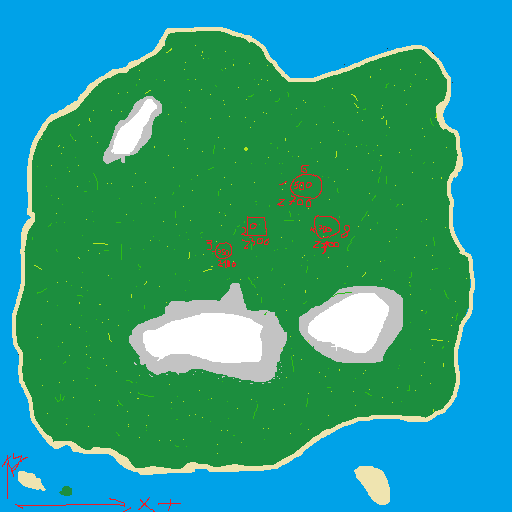
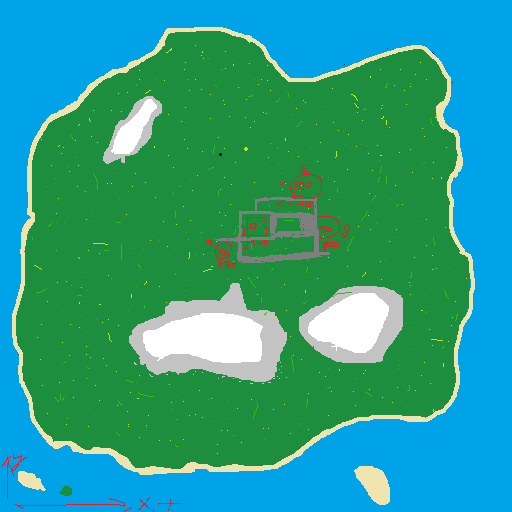
lampen

Changed region(s): [[0.4375, 0.375, 0.6562, 0.5312]]

diff --git a/Main.java b/Main.java
@@ -19,8 +19,8 @@ public class Main {
         Boden1.setzeSkalierung(10,3,10);
         Boden1.setzePosition(0,-590,0);
         Boden1.setzeTextur("mapTextur.png");
-        Baum Baum1;
-        Baum1 = new Baum(-350,0,200,1);
+        lampe Baum1;
+        Baum1 = new lampe(-450,0,200,1,true);
         
         
         if (multiplayer)
@@ -135,6 +135,50 @@ int[]koordinatenBaume = {
                 //System.out.println(koordinatenBaume[i+1]);
                 //System.out.println(koordinatenBaume[i+2]);
                 HitBoxen[i+9] = Baum.gibHitBox();
+            }
+
+            int[]koordinatenlampenV = {
+            -289,0,126,
+            -87,0,107,
+            56,0,-64,
+            254,0,-60,
+            368,0,332,
+            241,0,326,
+            -111,0,403,
+
+            };
+            
+            //           anzahl lampen *3
+            for (int i = 0;i<21; i= i+3){
+                lampe lampe;
+                lampe = new lampe(koordinatenlampenV[i], koordinatenlampenV[i+1], koordinatenlampenV[i+2], 1,true);
+                //System.out.println(koordinatenBaume[i]);
+                //System.out.println(koordinatenBaume[i+1]);
+                //System.out.println(koordinatenBaume[i+2]);
+                HitBoxen[i+63] = lampe.gibHitBox();
+            }
+            int[]koordinatenlampenR = {
+                -68,0,6,
+                552,0,42,
+                356,0,268,
+                257,0,268,
+                551,0,441,
+                609,0,595,
+                42,0,455,
+
+
+
+
+
+
+            };
+            for (int i = 0;i<21; i= i+3){
+                lampe lampe;
+                lampe = new lampe(koordinatenlampenR[i], koordinatenlampenR[i+1], koordinatenlampenR[i+2], 1,false);
+                //System.out.println(koordinatenBaume[i]);
+                //System.out.println(koordinatenBaume[i+1]);
+                //System.out.println(koordinatenBaume[i+2]);
+                HitBoxen[i+63] = lampe.gibHitBox();
             }
         
             Waffe Waffe1 = new Waffe(Enemys,Global,Feinde,FeindeBool);

diff --git a/lampe.java b/lampe.java
@@ -6,10 +6,12 @@ int x;
     double size;
     GLZylinder pfosten;
     GLZylinder quer;
+    GLKugel lampe;
+    GLLicht licht;
     Hitbox HitBox;
-    int hohe = 70;
-    int breite =3;
-    public lampe (int px, int py, int pz, double psize){
+    int hohe = 30;
+    int breite =1;
+    public lampe (int px, int py, int pz, double psize,boolean vorne){
         hohe = (int) (hohe*psize);
         x= px;
         y= py;
@@ -17,10 +19,26 @@ int x;
         size = psize;
         pfosten = new GLZylinder(x,y+hohe/2-5,z,breite,hohe);
         pfosten.drehe(90, 0, 0);
-        pfosten.setzeFarbe(0.5,0.3,0);
-        quer = new GLZylinder(x,y+hohe,z, 1,breite);
-        quer.setzeFarbe(0.2 ,0.8 ,0.2);
+        pfosten.setzeFarbe(0.5,0.5,0.5);
+        if (vorne ==true){ 
+        quer = new GLZylinder(x,y+hohe-5,z+10, breite,20);
+        quer.setzeFarbe(0.5 ,0.5 ,0.5);
+        lampe = new GLKugel(x,y+hohe-10,z+15, psize*2);
+        lampe.setzeFarbe(1 ,1 ,1);
+        lampe.setzeSelbstleuchten(1,1,1);
+        licht = new GLLicht(lampe.gibPosition());
+        licht.setzeAbschwaechung(0.05);
         HitBox = new Hitbox(pfosten.gibPosition(), breite, hohe, breite, true);
+    }else{
+        quer = new GLZylinder(x,y+hohe-5,z-10, breite,20);
+        quer.setzeFarbe(0.5 ,0.5 ,0.5);
+        lampe = new GLKugel(x,y+hohe-10,z-15, psize*2);
+        lampe.setzeFarbe(1 ,1 ,1);
+        lampe.setzeSelbstleuchten(1,1,1);
+        licht = new GLLicht(lampe.gibPosition());
+        licht.setzeAbschwaechung(0.05);
+        HitBox = new Hitbox(pfosten.gibPosition(), breite, hohe, breite, true);
+    }
     
    }
    public Hitbox gibHitBox()

diff --git a/Camera.java b/Camera.java
@@ -36,7 +36,7 @@ public class Camera {
 
         KameraMain=  KameraMain2;
         UIspieler = new UI(KameraMain);
-        Licht = new GLLicht();
+        //Licht = new GLLicht();
         Maus = new GLMaus();
         Himmel = new GLHimmel("Himmel.jpg");
         //Boden = new GLBoden("Boden.jpg");
@@ -110,7 +110,7 @@ public class Camera {
         {
             Mx = Maus.gibX();
             My = Maus.gibY();
-            if (Maus.gibX()>1750||Maus.gibX()<400||Maus.gibY()<200||Maus.gibY()>800)
+            if (Maus.gibX()>1750||Maus.gibX()<400)
             {   moveMouse(960,600);
                 Mx =960;
                 Mx2 =960;

diff --git a/Player.java b/Player.java
@@ -78,8 +78,8 @@ public class Player {
             if (Tastatur.istGedrueckt(' ')) {
                 System.out.println(((int) HitBox.x)+",0,");
                 System.out.println(((int) HitBox.z)+",");
-                Baum Baum;
-                Baum = new Baum((int) HitBox.x, 0, (int) HitBox.z, 1);
+                lampe Baum;
+                Baum = new lampe((int) HitBox.x, 0, (int) HitBox.z, 1,false);
                 //GLVektor Richtung = new GLVektor(0,1,0);
                 //Richtung.skaliereAuf(Geschwindigkeit);
                 //Camera.moveCameraRel(Richtung);
